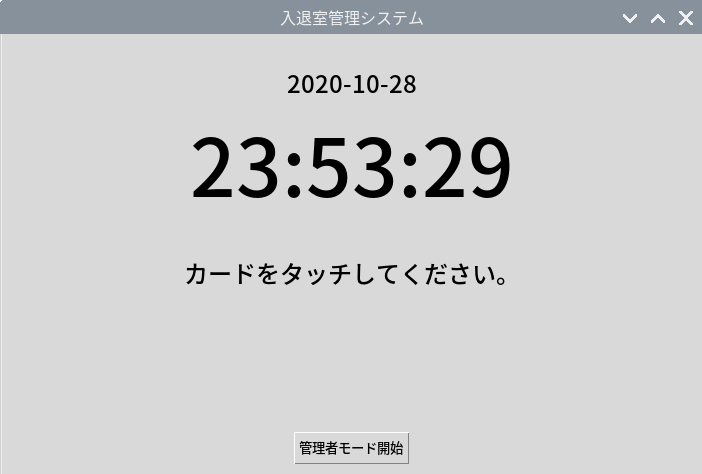
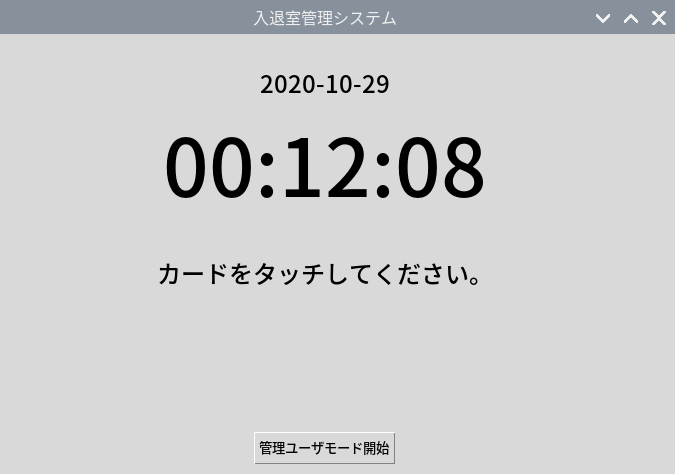
管理者モード→管理ユーザモード

diff --git a/view_admin_list.py b/view_admin_list.py
@@ -13,7 +13,7 @@ class ViewAdminList(ttk.Frame):
     def __init__(self, list_kind, master):
         # リスト種別
         self.list_kind = list_kind
-        # Felicaカード読取処理(管理者モード)リトライ回数
+        # Felicaカード読取処理(管理ユーザモード)リトライ回数
         self.read_felica_retry = 0
         # 登録者(在室者)リストから読込
         self.list = csvcontrol.read_list(list_kind)
@@ -143,7 +143,7 @@ class ViewAdminList(ttk.Frame):
                 self.read_felica_retry = 0
 
     ############################################################
-    # 管理者モードにおける登録者リストの更新(追加)
+    # 管理ユーザモードにおける登録者リストの更新(追加)
     ############################################################
     def add_list(self):
         idm = self.entry_idm.get()
@@ -174,7 +174,7 @@ class ViewAdminList(ttk.Frame):
             self.label_err.config(text='追加に成功しました。')
 
     ############################################################
-    # 管理者モードにおける登録者リストの更新(修正)
+    # 管理ユーザモードにおける登録者リストの更新(修正)
     ############################################################
     def chg_list(self):
         idm = self.entry_idm.get()
@@ -204,7 +204,7 @@ class ViewAdminList(ttk.Frame):
 
 
     ############################################################
-    # 管理者モードにおける登録者リストの更新(削除)
+    # 管理ユーザモードにおける登録者リストの更新(削除)
     ############################################################
     def del_list(self):
         idm = self.entry_idm.get()
@@ -230,7 +230,7 @@ class ViewAdminList(ttk.Frame):
             self.label_err.config(text='削除に失敗しました。')
 
     ############################################################
-    # 管理者モードにおける一覧表のリフレッシュ
+    # 管理ユーザモードにおける一覧表のリフレッシュ
     ############################################################
     def refresh_list(self):
         # 一覧表示を更新

diff --git a/view_admin.py b/view_admin.py
@@ -29,7 +29,7 @@ class ViewAdmin(ttk.Frame):
         note.bind('<<NotebookTabChanged>>', self.tab_changed)
 
         button = ttk.Button(self,
-                            text='管理者モード終了',
+                            text='管理ユーザモード終了',
                             command=lambda: master.switch_view(view_normal.ViewNormal))
         button.pack(pady=(10,0))
 

diff --git a/view_normal.py b/view_normal.py
@@ -51,7 +51,7 @@ class ViewNormal(ttk.Frame):
 
         # 管理ユーザ画面に移動するボタン
         button = ttk.Button(self,
-                            text="管理者モード開始",
+                            text="管理ユーザモード開始",
                             command=lambda: master.switch_view(view_admin.ViewAdmin))
         button.pack(pady=(110,0))
 
